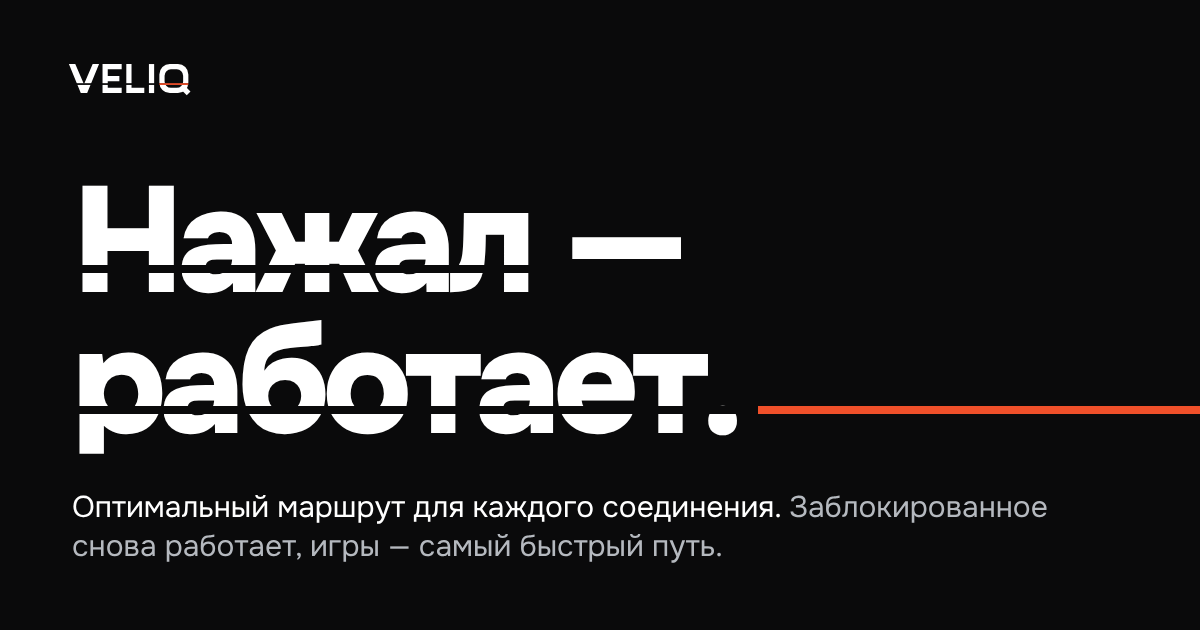
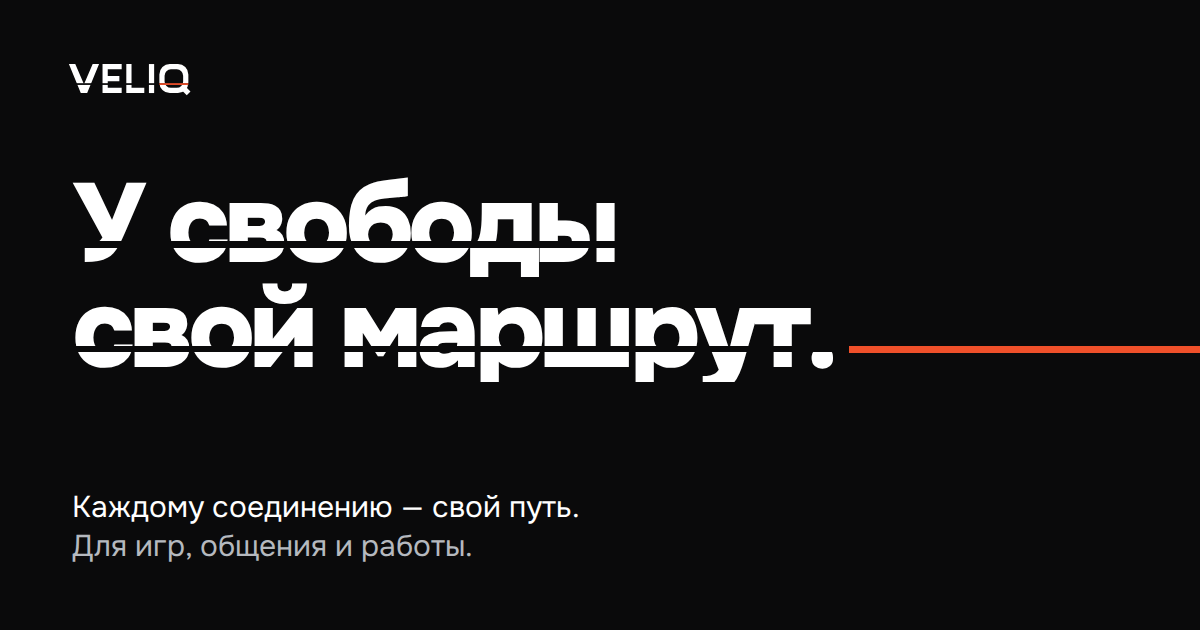
Обновлён первый экран: «У свободы свой маршрут»

Changed region(s): [[0.0617, 0.2714, 1.0, 0.7238], [0.0617, 0.7841, 0.8942, 0.9048]]

diff --git a/website/index.html b/website/index.html
@@ -3,23 +3,23 @@
 <head>
   <meta charset="utf-8">
   <meta name="viewport" content="width=device-width, initial-scale=1">
-  <title>VELIQ — нажал, и работает</title>
-  <meta name="description" content="VELIQ сам строит оптимальный маршрут: игры получают самый быстрый путь, голосовые чаты и стримы — стабильную связь. Для Windows 10 и 11.">
+  <title>VELIQ — у свободы свой маршрут</title>
+  <meta name="description" content="VELIQ подбирает маршруты для игр, общения и работы в интернете. Каждому соединению — свой путь. Для Windows 10 и 11.">
   <link rel="canonical" href="https://veliq.app/">
   <meta name="theme-color" content="#0A0A0B">
   <meta name="color-scheme" content="light dark">
   <meta property="og:type" content="website">
   <meta property="og:site_name" content="VELIQ">
   <meta property="og:locale" content="ru_RU">
-  <meta property="og:title" content="VELIQ — нажал, и работает">
-  <meta property="og:description" content="VELIQ сам строит оптимальный маршрут: игры получают самый быстрый путь, голосовые чаты и стримы — стабильную связь. Для Windows 10 и 11.">
+  <meta property="og:title" content="VELIQ — у свободы свой маршрут">
+  <meta property="og:description" content="VELIQ подбирает маршруты для игр, общения и работы в интернете. Каждому соединению — свой путь. Для Windows 10 и 11.">
   <meta property="og:url" content="https://veliq.app/">
-  <meta property="og:image" content="https://veliq.app/assets/img/og-image.png">
+  <meta property="og:image" content="https://veliq.app/assets/img/og-image.png?v=freedom-20261105">
   <meta property="og:image:width" content="1200">
   <meta property="og:image:height" content="630">
-  <meta property="og:image:alt" content="VELIQ: нажал — работает.">
+  <meta property="og:image:alt" content="VELIQ: у свободы свой маршрут.">
   <meta name="twitter:card" content="summary_large_image">
-  <meta name="twitter:image" content="https://veliq.app/assets/img/og-image.png">
+  <meta name="twitter:image" content="https://veliq.app/assets/img/og-image.png?v=freedom-20261105">
   <link rel="icon" href="assets/img/favicon.svg" type="image/svg+xml">
   <link rel="icon" href="assets/img/favicon.ico" sizes="any">
   <link rel="apple-touch-icon" href="assets/img/app-icon-180.png">
@@ -28,8 +28,9 @@
   <link rel="stylesheet" href="assets/tokens.css">
   <link rel="stylesheet" href="assets/components.css">
   <link rel="stylesheet" href="assets/site.css">
+  <link rel="stylesheet" href="assets/hero-freedom.css?v=20261105-1">
   <script>document.documentElement.classList.add('js');try{var t=localStorage.getItem('veliq-theme');if(t)document.documentElement.setAttribute('data-theme',t)}catch(e){}</script>
-  <script type="application/ld+json">[{"@context": "https://schema.org", "@type": "SoftwareApplication", "name": "VELIQ", "operatingSystem": "Windows 10, Windows 11", "applicationCategory": "UtilitiesApplication", "description": "VELIQ строит оптимальный маршрут для каждого соединения: игры получают самый быстрый путь, голосовые чаты и стримы — стабильную связь.", "softwareVersion": "1.0 beta", "url": "https://veliq.app"}, {"@context": "https://schema.org", "@type": "FAQPage", "mainEntity": [{"@type": "Question", "name": "Как VELIQ выбирает путь?", "acceptedAnswer": {"@type": "Answer", "text": "Программа замеряет задержку и потери до сервера игры или сервиса и выбирает лучший путь: обычный — через провайдера, или через собственные серверы VELIQ, если так быстрее или стабильнее. Всё, что и так работает хорошо, не трогает. <a href=\"how.html\">Как работает VELIQ</a>."}}, {"@type": "Question", "name": "Нужно ли что-то перезапускать?", "acceptedAnswer": {"@type": "Answer", "text": "Нет. Маршруты работают сразу после нажатия «Оптимизировать» — ничего закрывать и перезапускать не нужно."}}, {"@type": "Question", "name": "Как VELIQ влияет на пинг в играх?", "acceptedAnswer": {"@type": "Answer", "text": "VELIQ сравнивает пути до игрового сервера и выбирает самый быстрый. Если путь через сеть VELIQ не быстрее обычного, маршрут не меняется. Замеры видно в программе."}}, {"@type": "Question", "name": "Вы видите, что я открываю?", "acceptedAnswer": {"@type": "Answer", "text": "Нет. Мы не расшифровываем и не подменяем HTTPS. Сервер видит адрес назначения и объём данных — этого достаточно, чтобы переслать трафик. <a href=\"index.html#privacy\">Что видит сервер</a>. Подробности — в <a href=\"privacy.html\">политике конфиденциальности</a>."}}, {"@type": "Question", "name": "Какие системы поддерживаются?", "acceptedAnswer": {"@type": "Answer", "text": "Сейчас VELIQ работает на компьютерах с Windows. Версия для телефона готовится."}}, {"@type": "Question", "name": "Сколько стоит и как оплатить?", "acceptedAnswer": {"@type": "Answer", "text": "Тарифы — на странице <a href=\"pricing.html\">«Цены»</a>. Оплатить можно картой или через СБП в личном кабинете, клубы могут платить по счёту."}}, {"@type": "Question", "name": "Подходит ли VELIQ для клубов?", "acceptedAnswer": {"@type": "Answer", "text": "Да. Для клубов есть отдельный код активации и инструкция, они выдаются после заявки. <a href=\"clubs.html\">VELIQ для клубов</a>."}}]}]</script>
+  <script type="application/ld+json">[{"@context": "https://schema.org", "@type": "SoftwareApplication", "name": "VELIQ", "operatingSystem": "Windows 10, Windows 11", "applicationCategory": "UtilitiesApplication", "description": "VELIQ подбирает маршруты для игр, общения и работы в интернете. Каждому соединению — свой путь.", "softwareVersion": "1.0 beta", "url": "https://veliq.app"}, {"@context": "https://schema.org", "@type": "FAQPage", "mainEntity": [{"@type": "Question", "name": "Как VELIQ выбирает путь?", "acceptedAnswer": {"@type": "Answer", "text": "Программа замеряет задержку и потери до сервера игры или сервиса и выбирает лучший путь: обычный — через провайдера, или через собственные серверы VELIQ, если так быстрее или стабильнее. Всё, что и так работает хорошо, не трогает. <a href=\"how.html\">Как работает VELIQ</a>."}}, {"@type": "Question", "name": "Нужно ли что-то перезапускать?", "acceptedAnswer": {"@type": "Answer", "text": "Нет. Маршруты работают сразу после нажатия «Оптимизировать» — ничего закрывать и перезапускать не нужно."}}, {"@type": "Question", "name": "Как VELIQ влияет на пинг в играх?", "acceptedAnswer": {"@type": "Answer", "text": "VELIQ сравнивает пути до игрового сервера и выбирает самый быстрый. Если путь через сеть VELIQ не быстрее обычного, маршрут не меняется. Замеры видно в программе."}}, {"@type": "Question", "name": "Вы видите, что я открываю?", "acceptedAnswer": {"@type": "Answer", "text": "Нет. Мы не расшифровываем и не подменяем HTTPS. Сервер видит адрес назначения и объём данных — этого достаточно, чтобы переслать трафик. <a href=\"index.html#privacy\">Что видит сервер</a>. Подробности — в <a href=\"privacy.html\">политике конфиденциальности</a>."}}, {"@type": "Question", "name": "Какие системы поддерживаются?", "acceptedAnswer": {"@type": "Answer", "text": "Сейчас VELIQ работает на компьютерах с Windows. Версия для телефона готовится."}}, {"@type": "Question", "name": "Сколько стоит и как оплатить?", "acceptedAnswer": {"@type": "Answer", "text": "Тарифы — на странице <a href=\"pricing.html\">«Цены»</a>. Оплатить можно картой или через СБП в личном кабинете, клубы могут платить по счёту."}}, {"@type": "Question", "name": "Подходит ли VELIQ для клубов?", "acceptedAnswer": {"@type": "Answer", "text": "Да. Для клубов есть отдельный код активации и инструкция, они выдаются после заявки. <a href=\"clubs.html\">VELIQ для клубов</a>."}}]}]</script>
 </head>
 <body>
 <script src="assets/icons.js"></script>
@@ -61,13 +62,16 @@
 <section class="hero" style="overflow-x:clip">
   <div class="wrap hero__grid">
     <div class="hero__copy">
-      <h1 class="h-display hero-title">
-        <span class="slit-line"><span class="slit">Нажал —</span></span>
-        <span class="slit-line"><span class="slit">работает.</span><span class="slit-bar" aria-hidden="true"></span></span>
+      <h1 class="h-display hero-title hero-title--freedom">
+        <span class="hero-title__line">У свободы</span>
+        <span class="hero-title__line">свой маршрут.</span>
+        <svg class="hero-title__route" viewBox="0 0 640 32" aria-hidden="true" focusable="false">
+          <path d="M0 25H164C184 25 184 7 204 7H436C456 7 456 25 476 25H640" pathLength="1"/>
+        </svg>
       </h1>
-      <p class="lede">VELIQ сам выстраивает оптимальный маршрут для каждого соединения: игры получают самый быстрый путь до сервера, голосовые чаты и стримы — стабильную связь.</p>
+      <p class="lede">VELIQ подбирает маршруты для игр, общения и работы в интернете. Каждому соединению — свой путь.</p>
       <div class="hero__actions">
-        <a class="btn btn--lg" href="download.html"><svg class="i" aria-hidden="true"><use href="#i-download"/></svg>Скачать</a>
+        <a class="btn btn--lg" href="download.html"><svg class="i" aria-hidden="true"><use href="#i-download"/></svg>Скачать для Windows</a>
         <a class="btn btn--lg btn--ghost" href="clubs.html">Для компьютерных клубов</a>
       </div>
       <p class="hero__meta">Бета-версия</p>
@@ -276,3 +280,4 @@
 <script src="assets/site.js"></script>
 </body>
 </html>
+

diff --git a/brand/social/og-image.html b/brand/social/og-image.html
@@ -2,12 +2,13 @@
 <style>
 .canvas{width:1200px;height:630px;padding:64px 72px}
 .mark{height:58px;margin:-13px -6px 0}
-h1{position:absolute;left:72px;top:172px;margin:0;font-size:150px;font-weight:820;letter-spacing:-.05em}
+h1{position:absolute;left:72px;top:172px;margin:0;font-size:112px;font-weight:820;letter-spacing:-.05em}
 p{position:absolute;left:72px;bottom:64px;margin:0;font-size:30px;line-height:1.3;max-width:1060px}
 .os{position:absolute;right:72px;top:72px;font-size:22px;color:#8E939C}
 </style></head><body>
 <div class="canvas ink">
   <img class="mark" src="../logo/veliq-wordmark-dark.svg" alt="">
-  <h1><span class="slitwrap"><span class="slitline">Нажал —</span></span><span class="slitwrap"><span class="slitline">работает.</span><span class="bar"></span></span></h1>
-  <p><span>Оптимальный маршрут для каждого соединения.</span> <span class="muted">Заблокированное снова работает, игры — самый быстрый путь.</span></p>
+  <h1><span class="slitwrap"><span class="slitline">У свободы</span></span><span class="slitwrap"><span class="slitline">свой маршрут.</span><span class="bar"></span></span></h1>
+  <p>Каждому соединению — свой путь.<br><span class="muted">Для игр, общения и работы.</span></p>
 </div></body></html>
+

diff --git a/website/assets/hero-freedom.css b/website/assets/hero-freedom.css
@@ -1,0 +1,40 @@
+/* Первый экран VELIQ: «У свободы свой маршрут». */
+.hero-title--freedom {
+  font-size: clamp(38px, 6.1vw, 82px);
+  line-height: 1.04;
+  letter-spacing: -.045em;
+}
+.hero-title--freedom .hero-title__line {
+  display: block;
+  white-space: nowrap;
+}
+.hero-title__route {
+  display: block;
+  width: 100%;
+  height: auto;
+  margin-top: 24px;
+  overflow: visible;
+  fill: none;
+  stroke: var(--accent);
+  stroke-width: 3;
+}
+.hero-title__route path {
+  vector-effect: non-scaling-stroke;
+  stroke-dasharray: 1;
+  stroke-dashoffset: 0;
+  animation: freedom-route-in 1400ms var(--ease-route) 150ms backwards;
+}
+@keyframes freedom-route-in {
+  from { stroke-dashoffset: 1; }
+  to { stroke-dashoffset: 0; }
+}
+@media (max-width: 960px) {
+  .hero-title--freedom { font-size: clamp(34px, 11vw, 82px); }
+  .hero-title__route { max-width: 640px; margin-top: 20px; }
+}
+@media (prefers-reduced-motion: reduce) {
+  .hero-title__route path { animation: none; }
+}
+@media print {
+  .hero-title__route path { animation: none; }
+}

diff --git a/brand/copy.md b/brand/copy.md
@@ -17,9 +17,11 @@
 
 ## Слоган
 
-**Нажал — работает.**
+**У свободы свой маршрут.**
 
-Запасные: «Оптимальный маршрут для каждого соединения». «Одна кнопка, правильный путь».
+Первый экран: «У свободы» / «свой маршрут.» — две строки. Подпись: «VELIQ подбирает маршруты для игр, общения и работы в интернете. Каждому соединению — свой путь.»
+
+Фирменная оранжевая линия изображает маршрут под заголовком. Движение плавное и однократное; при уменьшении анимации в системе линия статична.
 
 ## Описание
 
@@ -171,3 +173,4 @@
 | Сайт, цены | Подписка на месяц. Платите за число компьютеров, на которых работает VELIQ. |
 
 Продавец, цены, срок хранения журналов и адрес кабинета задаются в `design/tools/build-site.py` (SELLER, PRICES, LOG_RETENTION, ACCOUNT_URL). Пока они пустые, на страницах оплаты и в документах видна пометка «Черновик».
+
